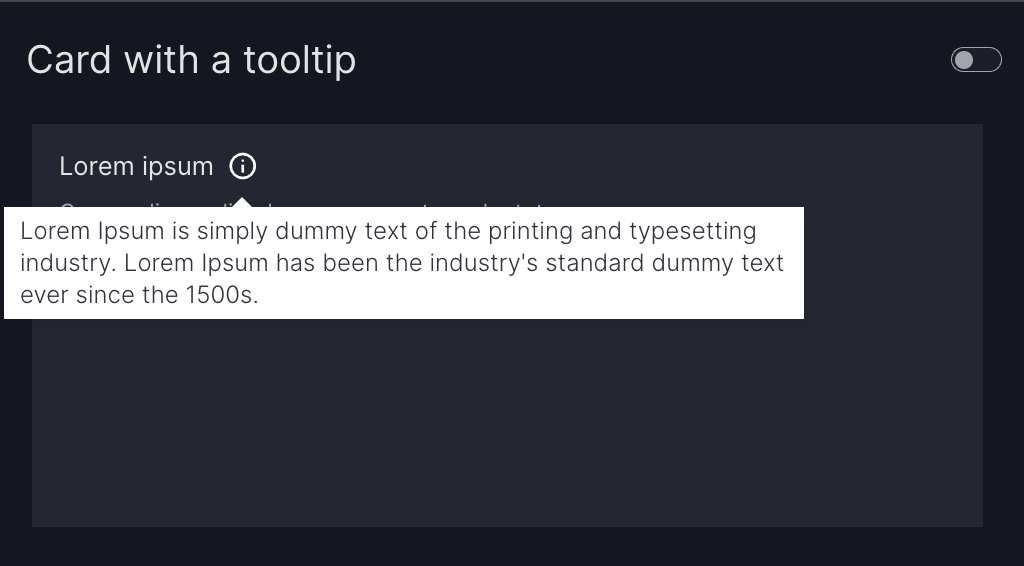
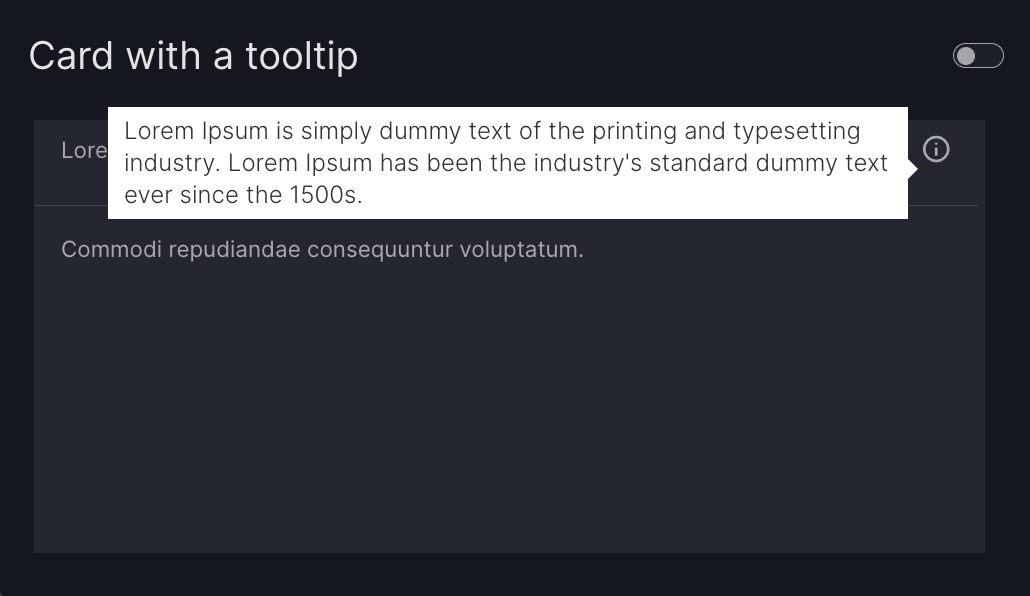
pr comments

diff --git a/vizro-core/src/vizro/models/_components/card.py b/vizro-core/src/vizro/models/_components/card.py
@@ -93,9 +93,10 @@ class Card(VizroBaseModel):
     actions: ActionsType = []
 
     @model_validator(mode="after")
-    def _validate_href_if_actions_set(self):
+    def validate_href_and_actions(self):
         if self.href and self.actions:
-            raise ValueError("You cannot define both `href` and `actions` in `Card` model.")
+            raise ValueError("Button cannot have both `href` and `actions` defined.")
+
         return self
 
     @model_validator(mode="after")

diff --git a/vizro-core/src/vizro/models/_components/button.py b/vizro-core/src/vizro/models/_components/button.py
@@ -108,7 +108,7 @@ class Button(VizroBaseModel):
         return {"__default__": f"{self.id}.n_clicks"}
 
     @staticmethod
-    def _get_value_from_trigger(value: JsonValue, *args) -> JsonValue:
+    def _get_value_from_trigger(value: JsonValue, trigger: int) -> JsonValue:
         """Return the given `value` without modification."""
         return value
 

diff --git a/vizro-core/docs/pages/user-guides/card.md b/vizro-core/docs/pages/user-guides/card.md
@@ -199,7 +199,7 @@ The [`Card`][vizro.models.Card] uses the `dcc.Markdown` component from Dash as i
 
 ## Add header and footer
 
-You can add header and footer to your [`Card`][vizro.models.Card] model by specifying `header` and `footer` arguments. Each supports any Markdown object, providing flexibility for text, links, or inline formatting, as the underlying components are dbc.CardHeader and dbc.CardFooter.
+YouYou can add header and footer to your [`Card`][vizro.models.Card] model by specifying `header` and `footer` arguments. Both accept Markdown content, allowing you to add text, links, and inline formatting with ease.
 
 !!! example "Card with header and footer"
 
@@ -615,11 +615,11 @@ To create a KPI card, use the existing KPI card functions from [`vizro.figures`]
 
 For detailed examples on how to create a KPI card, refer to the [figure user guide on KPI cards](figure.md#key-performance-indicator-kpi-cards).
 
-## Add title with a tooltip
+## Add a tooltip
 
 Add a title to your card by passing a string to the `title` argument.
 
-The `description` argument enables you to add helpful context to your button by displaying an info icon next to its title. Hovering over the icon shows a tooltip with your chosen text.
+The `description` argument enables you to add helpful context to your button by displaying an info icon in the top right corner of the card header. Hovering over the icon shows a tooltip with your chosen text.
 
 You can provide [Markdown text](https://markdown-guide.readthedocs.io/) as a string to use the default info icon or a [`Tooltip`][vizro.models.Tooltip] model to use any icon from the [Google Material Icons library](https://fonts.google.com/icons).
 
@@ -636,7 +636,7 @@ You can provide [Markdown text](https://markdown-guide.readthedocs.io/) as a str
             components=[
                 vm.Card(
                     text="Commodi repudiandae consequuntur voluptatum.",
-                    title="Lorem ipsum",
+                    header="Lorem ipsum",
                     description="Lorem Ipsum is simply dummy text of the printing and typesetting industry. "
                                 "Lorem Ipsum has been the industry's standard dummy text ever since the 1500s.",
                 ),
@@ -656,7 +656,7 @@ You can provide [Markdown text](https://markdown-guide.readthedocs.io/) as a str
           - components:
               - text: |
                   Commodi repudiandae consequuntur voluptatum.
-                title: Lorem ipsum
+                header: Lorem ipsum
                 description: |
                   Lorem Ipsum is simply dummy text of the printing and typesetting industry.
 
